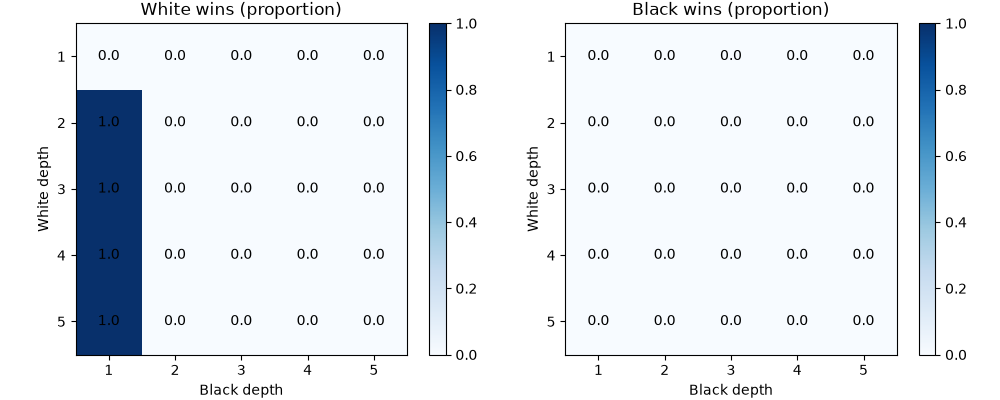
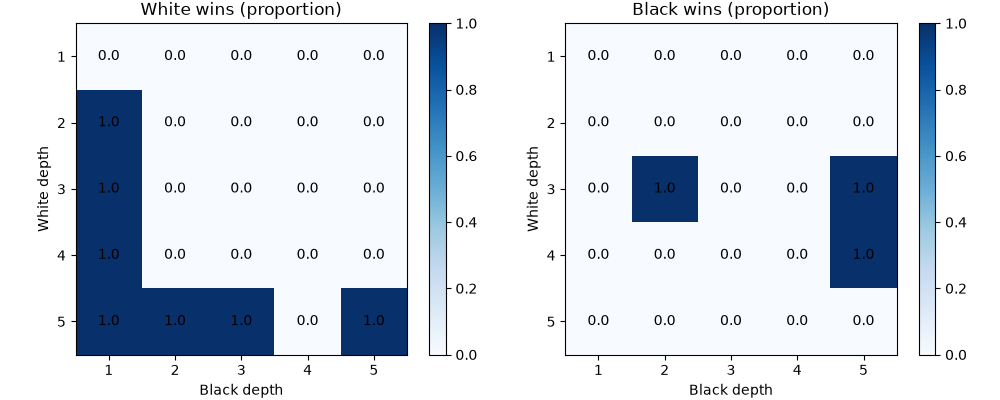
acabat?

diff --git a/report_draft.md b/report_draft.md
@@ -35,45 +35,64 @@ In all of them the leaves are evaluated with the heuristic provided in the base 
 
 ## Question 1 (minimax vs minimax, depth 4)
 
-**a. How often do whites win?** [RESULT: white wins / black wins / ties over the games run]
+**a. How often do whites win?** Never. In the 3 games that we ran, with White and Black playing minimax at depth 4, the result was a tie each time (white wins / black wins / ties = 0 / 0 / 3). The three games are identical, because the algorithm is deterministic.
 
-**b. Justification.** [Fill in with the result. Points that we have verified:]
+**b. Justification.**
 
 - Both players use the same deterministic algorithm, the same heuristic and the same depth, so every game is the same.
 - With a depth of 4 moves both players see the same, so neither of them can force a checkmate: the best defence of Black to the first check (1.Ra8+) is to move the king to [1,6] (g7), protecting its rook. Capturing the rook would be answered by recapturing, and only the two kings would be left, which is a tie.
-- The positions that the heuristic evaluates do not distinguish well those that lead to a checkmate, so the players move the king and the rook around without making progress until the limit of moves is reached.
+- The heuristic does not distinguish well the positions that lead to a checkmate, so the players do not make progress and the game is a tie. [We have not checked move by move whether these games end by the limit of 100 moves or by insufficient material.]
 
 ## Question 2 (minimax vs minimax, depth 3 and 4)
 
-[TABLE: for each pair (white depth, black depth) in {3,4}²: white wins / black wins / ties over 3 games. Figure: `exercise2.png`]
+Results over 3 games per combination (white wins / black wins / ties). Figure: `exercise2.png`.
 
-**a.** [Percentage of white wins for each combination.]
+| White depth \ Black depth | 3 | 4 |
+|---|---|---|
+| 3 | 0 / 0 / 3 | 0 / 0 / 3 |
+| 4 | 0 / 0 / 3 | 0 / 0 / 3 |
 
-**b. Is the result symmetric? Why?** [Fill in with the table. Points: the game is not symmetric because White moves first and because the heuristic is written from White's point of view, but with these depths the four combinations are expected to give the same result: Black sees enough to defend.]
+**a.** The percentage of white wins is 0 % in the four combinations.
+
+**b. Is the result symmetric? Why?** The result is the same in the four combinations: all the games are ties. The game is not symmetric in itself (White moves first, and the heuristic is written from White's point of view), but with depth 3 or 4 Black sees enough to find the defence (protecting the rook), so that asymmetry does not show up in the result. It only shows when the two depths are very different (see question 4).
 
 ## Question 3 (white minimax, black alpha-beta, depth 4)
 
-[RESULT of the 3 games]
+Result of the 3 games: white wins / black wins / ties = 0 / 0 / 3.
 
-**a. Who is the best in each simulation?** [Fill in with the result.]
+**a. Who is the best in each simulation?** Nobody: the three games are ties.
 
-**b. Why?** Alpha-beta returns the same decision as minimax at the same depth, because the pruning only discards branches that cannot change the result (we checked that `minimax` and `alphaBeta` return the same value in 12 consecutive positions of a real game, for depths 1 to 3). The difference is only the time: a game with minimax at depth 4 for White took about 45 to 60 minutes on our machines, and alpha-beta takes a fraction of that. [Add the measured times of each algorithm.]
+**b. Why?** Alpha-beta returns the same decision as minimax at the same depth, because the pruning only discards branches that cannot change the result (we checked that `minimax` and `alphaBeta` return the same value in 12 consecutive positions of a real game, for depths 1 to 3). Since both players see the same, none of them gets an advantage. The difference is only the time: a game with minimax at depth 4 for White took about 45 to 60 minutes on our machines, and alpha-beta takes a fraction of that. [Add the measured times of each algorithm.]
 
 ## Question 4 (alpha-beta vs alpha-beta, depths 1 to 5)
 
-[TABLE 5x5 of results and figure `exercise4.png`]
+Result over 3 games per combination (W = White wins the 3 games, B = Black wins the 3 games, t = the 3 games are ties). Figure: `exercise4.png`.
 
-**a.** [Proportion of wins of White and Black.]
+| White depth \ Black depth | 1 | 2 | 3 | 4 | 5 |
+|---|---|---|---|---|---|
+| 1 | t | t | t | t | t |
+| 2 | W | t | t | t | t |
+| 3 | W | B | t | t | B |
+| 4 | W | t | t | t | B |
+| 5 | W | W | W | t | W |
 
-**b. Comment on the result.** [Fill in with the table. Expected points: White only wins when Black searches a single move; with depth 2 or more, Black finds the defence (protecting the rook) and the game is a tie; Black does not win with any combination.]
+**a.** White wins in 7 of the 25 combinations, Black wins in 3 (W3-B2, W3-B5 and W4-B5) and the rest are ties. In every combination the three games have the same result.
+
+**b. Comment on the result.**
+
+- When Black searches a single move (depth 1), White wins with any depth from 2 to 5: Black does not see the defence (protecting the rook).
+- White with depth 1 does not win and does not lose against any depth.
+- When both players search at least 2 moves, most of the games are ties, which is consistent with the position being even (question 6).
+- The result is not monotonic: a larger depth does not always give a better result. For example, W5-B4 is a tie but W5-B5 is a win for White, and Black wins with depth 2 against White with depth 3. [We have not analysed these games move by move. A likely cause is the horizon effect, together with the fact that the heuristic does not evaluate the positions well when the depth is limited. Check before submitting.]
+- Black can win, so White's advantage is not absolute; it depends on the depth of both players.
 
 ## Question 5 (white expectimax, black alpha-beta)
 
-[RESULT of the 3 games and figure `exercise5.png`]
+Result of the 3 games (depth 3 for both): white wins / black wins / ties = 0 / 0 / 3. Figure: `exercise5.png`.
 
-**a.** [Proportion of wins of White and Black.]
+**a.** The proportion of wins is 0 for White, 0 for Black and 1 for ties.
 
-**b. Who wins the most? Why?** [Fill in with the result.] Points that we have verified: expectimax does not assume that Black plays its best move, but a weighted average of all its replies (`calculateValue`). After 1.Ra8+ Kg7, White captures the black rook on h8. Expectimax averages over all the replies of Black, and the replies other than the recapture do not recover the rook, so the average looks good for White [check this with the values of the search before submitting]. But the best reply, recapturing, leaves only the two kings and the game is a tie. Alpha-beta in Black's side does find that reply.
+**b. Who wins the most? Why?** Nobody wins. Expectimax does not assume that Black plays its best move, but a weighted average of all its replies (`calculateValue`). After 1.Ra8+ Kg7, White captures the black rook on h8. Expectimax averages over all the replies of Black, and the replies other than the recapture do not recover the rook, so the average looks good for White [check this with the values of the search before submitting]. But the best reply, recapturing, leaves only the two kings and the game is a tie. Alpha-beta on Black's side does find that reply, so White's optimism does not pay off.
 
 ## Question 6
 
@@ -83,7 +102,7 @@ Not completely. With perfect play from both sides, king and rook against king an
 
 - **White moves first.** It has the tempo, so it can be the first one to attack the opposing rook or to give a check that forces a reply.
 - **The material is not equally safe.** If a rook is exchanged, only the two kings remain and the game is a draw. If a rook is lost without compensation, the other side has king and rook against a lone king, which is a won endgame. A single tactical mistake therefore decides the game.
-- **The evaluation is not symmetric.** The heuristic is computed from White's perspective, and the capture of the black rook is rewarded and the capture of the white one penalized with different terms. This is why in our simulations White wins when Black searches with less depth, but never the other way round.
+- **The evaluation is not symmetric.** The heuristic is computed from White's perspective, and the capture of the black rook is rewarded and the capture of the white one penalized with different terms. This is why in our simulations White wins when Black searches only one move. Black also wins in some combinations of depth (question 4), so the advantage depends on the depths and is not exclusive to White.
 
 **b. What makes this situation of particular interest for the study of adversarial games?**
 
